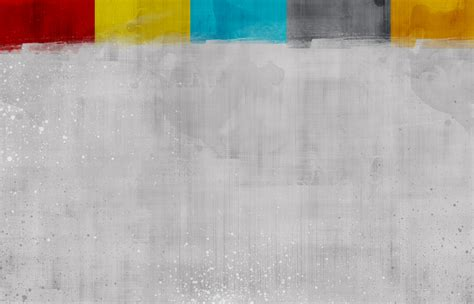
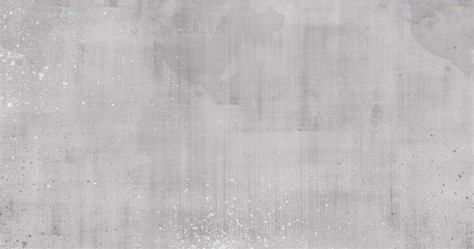
Fixed typpos and navbar

diff --git a/docs/index.html b/docs/index.html
@@ -5,7 +5,7 @@
 		
 		<head>
 			
-			 <meta name="viewport" content="width-device-width,initial-scale=1.0" >
+			 <meta charset="UTF-8" name="viewport" content="width-device-width,initial-scale=1.0" >
 			 <title> Homepage </title>
 			 <link rel="stylesheet" type="text/css" href="./Cipher_Website/CSS/website.css">
 			 <link rel="icon" type="image/png" href="./Cipher_Website/images/webicon.png">
@@ -74,81 +74,3 @@
 			 </footer>
     </body>
 </html>
-
-=======
-<!DOCTYPE HTML>
-
-<html lang="en">	
-		
-		<head>
-			 <meta charset="UTF-8">
-			 <title> Homepage </title>
-			 <link rel="stylesheet" type="text/css" href="./Cipher_Website/CSS/website.css">
-			 <link rel="icon" type="image/png" href="./Cipher_Website/images/webicon.png">
-			 <script  src="../JavaScript/cipher1.js"></script>
-		</head>
-		
-	<body >
-		
-	   <header role="banner"> 
-			<h1 >  <a href="index.html" title="link to home page" class="site-name-dec"><img src="./Cipher_Website/images/logo.ico"s alt="logo icon" class="logo"> Secret Communications </a></h1>
-		
-		<nav role="navigation">
-           <p class="scroll-menu">
-		   
-		   <a href="index.html" title="link to home/index page" class="current-page">Home</a>		   
-		   <a href="./Cipher_Website/HTML/cipher1.html" title="link to cipher 1 page">Rot 13</a>
-		   <a href="./Cipher_Website/HTML/cipher2.html" title="link to cipher 2 page"> 3M K</a>
-		   <a href="./Cipher_Website/HTML/Cipher3.html" title="link to cipher 3 page">Cipher3</a>
-		   <a href="./Cipher_Website/HTML/design.html" title="link to design page">Design</a>
-		   </p>
-		</nav>
-       </header>	
-       	
-        <main role="main" >
-		<img src="./Cipher_Website/images/t1.png" alt="header picture" class="page-image">
-         
-            <article role="article">
-            <h3>Introduction To Ciphers</h3>
-			  <section>
-			  <h2>History of Ciphers.</h2>
-				<p class="paragraph-style">
-                 
-				  The need to conceal messages has been with us since we moved out of caves, started living in groups and decided to take this civilization idea seriously. As soon as there were different groups or tribes, the idea that we had to work against each other surfaced and was proliferated&#44; along with secrecy and crowd manipulation. The earliest forms of secret communications were found in the early civilization of Egypt&#44; Greece and Rome. They used differnt forms of cipher techniques to keep the messages hidden from others.
-                  </p>
-            
-				  <br>
-				  <h2>What is a Cipher?</h2>
-				  <p class="paragraph-style">
-				  It is a way of producing secret messages/text so that the actual meaning or secret message remains hidden unless you know how to decode the ciphered text. <br> 
-                      In <em>cryptography</em>, a cipher is an algorithm for performing encryption or decryption &#45;a series of well-defined steps that can be followed as a procedure. An alternative&#44; less common term is encipherment. To encipher or encode is to convert information into cipher or code. In common parlance&#44; &ldquo;cipher&rdquo; is synonymous with&ldquo;code&rdquo;&#44; as they are both a set of steps that encrypt a message&#59; however&#44; the concepts are distinct in cryptography&#44; especially classical cryptography.
-                      <br>
-                      The text before encryption is known as plaintext whereas text after adding encryption is known as ciphered/encrypted text.
-				  <br><br>
-				 </p>
-            </section>
-            
-             <h3>Sounds exciting? Find out more!</h3>
-            <section>
-                <a href="./Cipher_Website/HTML/cipher1.html" title="link to cipher1 page"><div class="index-to-cipher1"> Rot 13 <br><br> Easy !</div></a>
-                
-                <a href="./Cipher_Website/HTML/cipher2.html" title="link to cipher2 page"><div class="index-to-cipher2"> 3M K <br><br>Hard !!</div></a>
-                <a href="./Cipher_Website/HTML/cipher3.html" title="link to cipher3 page"><div class="index-to-cipher3"> Cipher 3 <br><br> Difficult !!!</div></a>
-                <br><br><br>
-            </section>
-					<aside role="complementary">
-					<p class="review"> <i>“It was a brilliant idea discovered by ancient civilizations that I would recommended everyone to use ciphered communications methods to have better security and peace of mind.”<br>
-							– Mr. A.Einstein, England.
-					</i></p>
-					</aside>
-               
-         </article>
-        </main>
-		     <footer role="contentinfo">
-			  <hr>
-			  Copyright &copy; 2018 Cipher Communications, 123 Cipher Street Perth, Scotland. All Rights Reserved.
-			 </footer>
-    </body>
-</html>
-
-

diff --git a/docs/Cipher_Website/HTML/Cipher3.html b/docs/Cipher_Website/HTML/Cipher3.html
@@ -3,7 +3,7 @@
 <html lang="en">	
 		
 		<head>
-            <meta name="viewport" content="width-device-width,initial-scale=1.0" >
+            <meta charset="UTF-8" name="viewport" content="width-device-width,initial-scale=1.0" >
 			 <title> Vegenere Cipher </title>
 			 <link rel="stylesheet" type="text/css" href="../CSS/website.css"  >
 			 <link rel="icon" type="image/png" href="../images/webicon.png">
@@ -59,7 +59,7 @@
 			    <div class="cipherTool">
 			     <h2>Encode Text</h2>
 			      <ol>
-			          <li>Enter your desired text into the large input box.</li>
+			          <li>Enter your desired text into the input box.</li>
 			          <li>Enter key value into the small input box.</li>
 			          <li>Click on encode button to view encrypted text.</li>
 			          <li>Encrypted text will be displayed in the ouput box.</li>
@@ -86,7 +86,7 @@
                 <li>Enter the text into the decoder input box.</li>
                 <li>Enter key value into the small input box.</li>
                 <li>Click on decode button to view decrypted text.</li>
-                <li>Decoded text will be displayed in the output box..</li>
+                <li>Decoded text will be displayed in the output box.</li>
                 <li>Use clear button to clear the form.</li>
             </ol>
 <!--				 <input type="text" id="decode11">-->

diff --git a/docs/Cipher_Website/CSS/website.css b/docs/Cipher_Website/CSS/website.css
@@ -21,7 +21,7 @@ body 		{
 				background-image: url(../images/background.jpg);
 				
                 font-family:calibri,Constantia, "Lucida Bright", "DejaVu Serif", "Georgia", "serif";
-                background-size: 100%;
+                background-size: 85%;
               
     
 			}
@@ -312,7 +312,7 @@ p.scroll-menu  {
 	
 					background-color:#a64c4c;
 					margin: 0 0 0 0px;
-                    height: 76px;
+                    height: 5%;
                     
                     
 				
@@ -324,9 +324,10 @@ p.scroll-menu  a  {
 					display: inline-block;
 					color:   white;
 					text-align: center;
-                    margin-top: 8px;
+					margin-top: 0.6%;
+					margin-bottom: 0.6%;
                     text-decoration: underline;
-					padding:   14px;
+					padding:   0.8%;
 					/* //text-decoration: none; */
 					margin-left:10.5%;
                     font-size: 1.5em;

diff --git a/docs/Cipher_Website/HTML/cipher2.html b/docs/Cipher_Website/HTML/cipher2.html
@@ -3,7 +3,7 @@
 <html lang="en">	
 		
 		<head>
-            <meta name="viewport" content="width-device-width,initial-scale=1.0" >
+            <meta charset="UTF-8" name="viewport" content="width-device-width,initial-scale=1.0" >
 			 <title> 3MK Cipher </title>
 			 <link rel="stylesheet" type="text/css" href="../CSS/website.css" >
 			 <link rel="icon" type="image/png" href="../images/webicon.png">
@@ -76,7 +76,7 @@
               <div class="cipherTool">
 			      <h2>Decode Text</h2>
 			  <ol>
-			          <li>Enter text into the input box including key number.</li>
+			          <li>Enter text into the input box including key number. e.g  abc45.</li>
 			          <li>Click on decode button to view encrypted text.</li>
 			          <li>Encrypted text get displayed in the output box.</li>
 			          <li>Use Clear button to clear the form.</li>

diff --git a/docs/Cipher_Website/HTML/cipher1.html b/docs/Cipher_Website/HTML/cipher1.html
@@ -3,7 +3,7 @@
 <html lang="en">	
 		
 		<head>
-			 <meta name="viewport" content="width-device-width,initial-scale=1.0" >
+			 <meta charset="UTF-8" name="viewport" content="width-device-width,initial-scale=1.0" >
 			 <title> Rot13 Cipher </title>
 			 <link rel="stylesheet" type="text/css" href="../CSS/website.css"  >
 			 <link rel="icon" type="image/png" href="../images/webicon.png">
@@ -81,7 +81,7 @@
             <ol>
                 <li>Enter the text in the decoder input box.</li>
                 <li>Click decode button to view decrypted text.</li>
-                <li>Decoded text will be displayed in the output box.</li>
+                <li>Decoded text get displayed in the output box.</li>
                 <li>Use Clear button to clear the form.</li>
             </ol>
 <!--				 <input type="text" id="decode11">-->

diff --git a/docs/Cipher_Website/HTML/design.html b/docs/Cipher_Website/HTML/design.html
@@ -3,7 +3,7 @@
 <html lang="en">	
 		
 		<head>
-            <meta name="viewport" content="width-device-width,initial-scale=1.0" >
+            <meta charset="UTF-8" name="viewport" content="width-device-width,initial-scale=1.0" >
 			 <title> Design  </title>
 			 <link rel="stylesheet" type="text/css" href="../CSS/website.css">
 			 <link rel="icon" type="image/png" href="../images/webicon.png">
